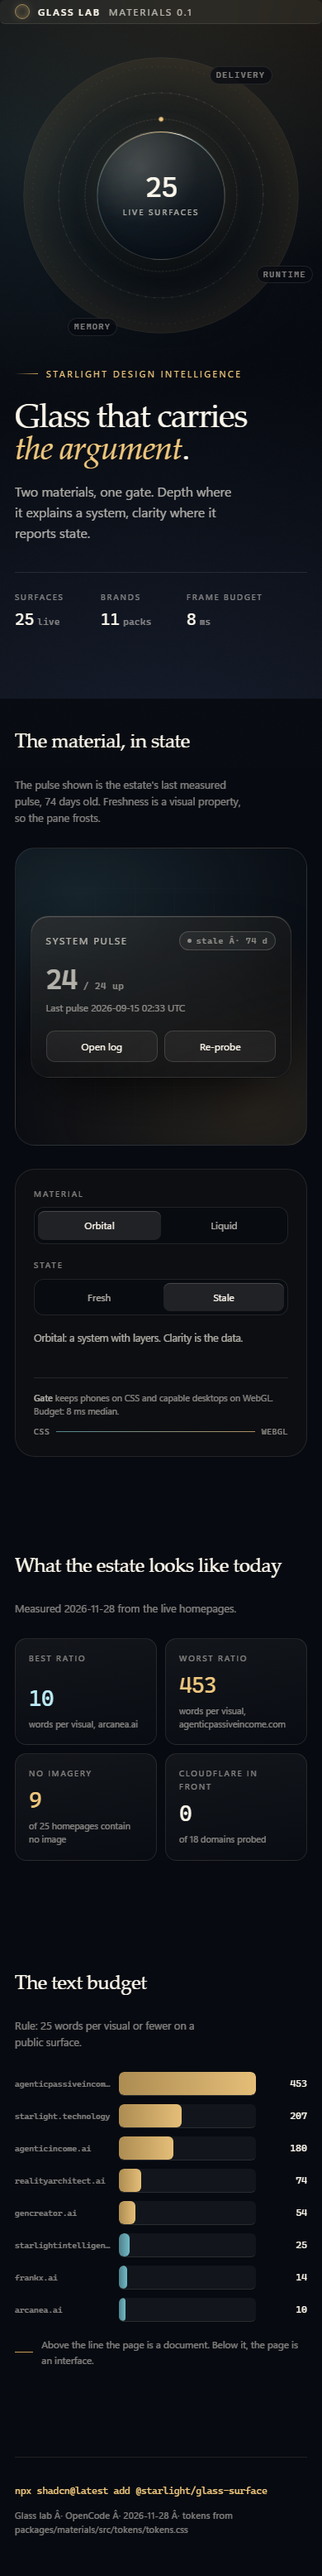
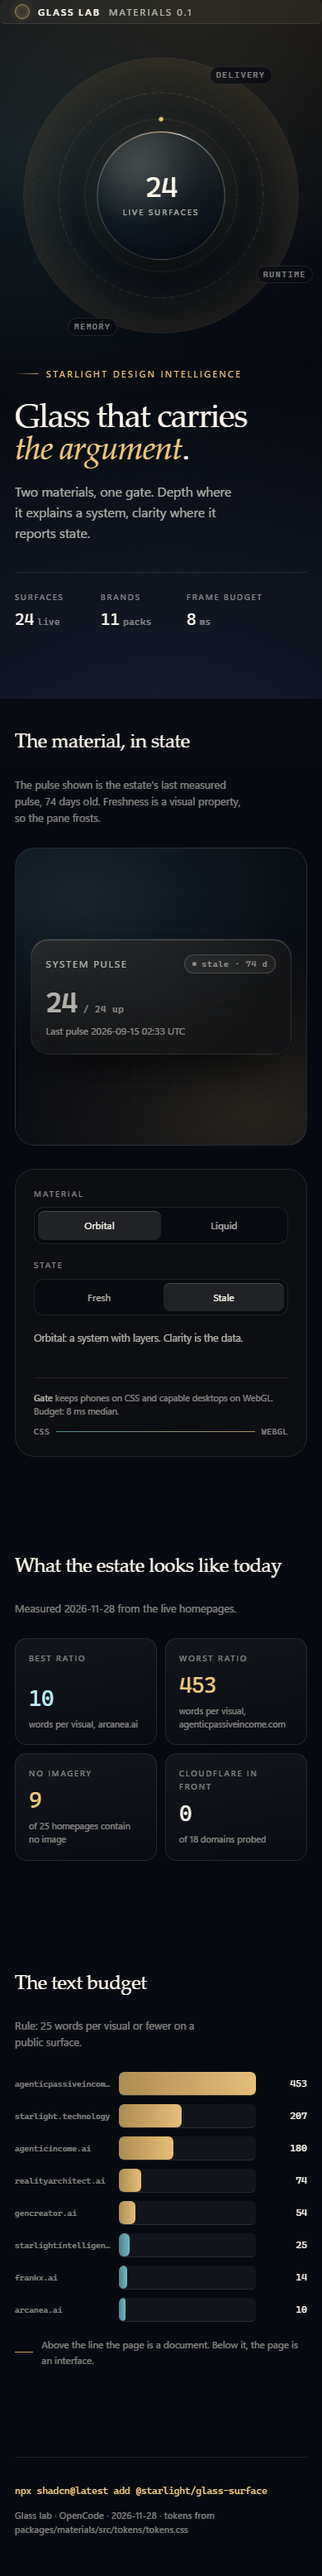
fix(design-lab): honest datum and no dead controls [agent-wip]
The registry counts 24 live surfaces, not 25; the hero now says 24. Removes two placeholder pane buttons that did nothing, which is fake UI. Re-rendered and re-captured: 0 errors, 0 external requests, no overflow at 390.

diff --git a/public/glass/glass-lab.html b/public/glass/glass-lab.html
@@ -472,28 +472,10 @@
   .pane-value span { font-size: 11px; color: var(--subtle); letter-spacing: .06em; }
 
   .pane-sub {
-    margin: 8px 0 18px;
+    margin: 8px 0 0;
     font-size: 12px;
     color: var(--subtle);
   }
-
-  .pane-controls { display: flex; gap: 8px; }
-
-  .press {
-    flex: 1;
-    appearance: none;
-    border: 1px solid rgba(251,246,235,.14);
-    background: rgba(251,246,235,.06);
-    color: var(--on-surface);
-    font: inherit;
-    font-size: 12px;
-    padding: 9px 10px;
-    border-radius: 10px;
-    cursor: pointer;
-    transition: transform var(--dur-press) var(--ease-spring), background var(--dur-press) linear;
-  }
-
-  .press:active { transform: scale(.97); }
 
   /* liquid state: pointer highlight, only where a fine pointer exists */
   @media (hover: hover) and (pointer: fine) {
@@ -837,7 +819,7 @@
       <h1 id="hero-title">Glass that carries <em>the argument</em>.</h1>
       <p class="lede">Two materials, one gate. Depth where it explains a system, clarity where it reports state.</p>
       <dl class="meta-row">
-        <div><dt>Surfaces</dt><dd>25<span>live</span></dd></div>
+        <div><dt>Surfaces</dt><dd>24<span>live</span></dd></div>
         <div><dt>Brands</dt><dd>11<span>packs</span></dd></div>
         <div><dt>Frame budget</dt><dd>8<span>ms</span></dd></div>
       </dl>
@@ -871,7 +853,7 @@
       <span class="ring-label r3">memory</span>
       <div class="datum">
         <div>
-          <div class="datum-num">25</div>
+          <div class="datum-num">24</div>
           <div class="datum-label">live surfaces</div>
         </div>
       </div>
@@ -895,10 +877,6 @@
           </div>
           <div class="pane-value"><strong>24</strong><span>/ 24 up</span></div>
           <p class="pane-sub">Last pulse 2026-09-15 02:33 UTC</p>
-          <div class="pane-controls">
-            <button class="press" type="button">Open log</button>
-            <button class="press" type="button">Re-probe</button>
-          </div>
         </div>
       </div>
 
@@ -1046,15 +1024,6 @@
       });
     }
 
-    // Press depth on the two placeholder controls, so the state contract is visible.
-    pane.querySelectorAll(".press").forEach(function (button) {
-      button.addEventListener("click", function () {
-        button.animate(
-          [{ transform: "scale(.97)" }, { transform: "scale(1)" }],
-          { duration: 220, easing: "cubic-bezier(.34,1.56,.64,1)" }
-        );
-      });
-    });
   })();
 </script>
 </body>

diff --git a/app/design-lab/glass/page.tsx b/app/design-lab/glass/page.tsx
@@ -40,7 +40,7 @@ export default function GlassLabPage() {
               <div>
                 <dt>Surfaces</dt>
                 <dd>
-                  25<span>live</span>
+                  24<span>live</span>
                 </dd>
               </div>
               <div>
@@ -57,7 +57,7 @@ export default function GlassLabPage() {
               </div>
             </dl>
           </div>
-          <OrbitalField value="25" label="live surfaces" rings={["delivery", "runtime", "memory"]} />
+          <OrbitalField value="24" label="live surfaces" rings={["delivery", "runtime", "memory"]} />
         </section>
 
         <section className={styles.section} aria-labelledby="state-title">

diff --git a/components/glass/glass-lab.tsx b/components/glass/glass-lab.tsx
@@ -24,7 +24,6 @@ export function GlassLab() {
           value="24"
           unit="/ 24 up"
           meta="Last pulse 2026-09-15 02:33 UTC"
-          actions={[{ label: "Open log" }, { label: "Re-probe" }]}
         />
       </div>
 
